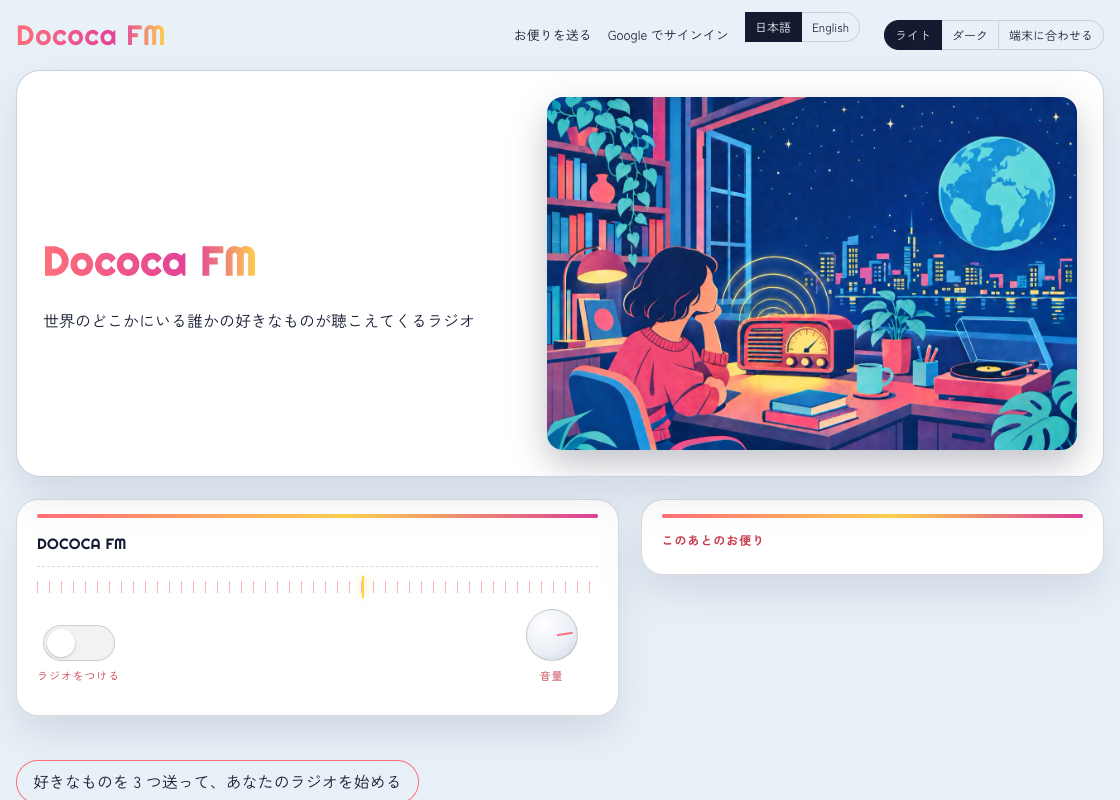
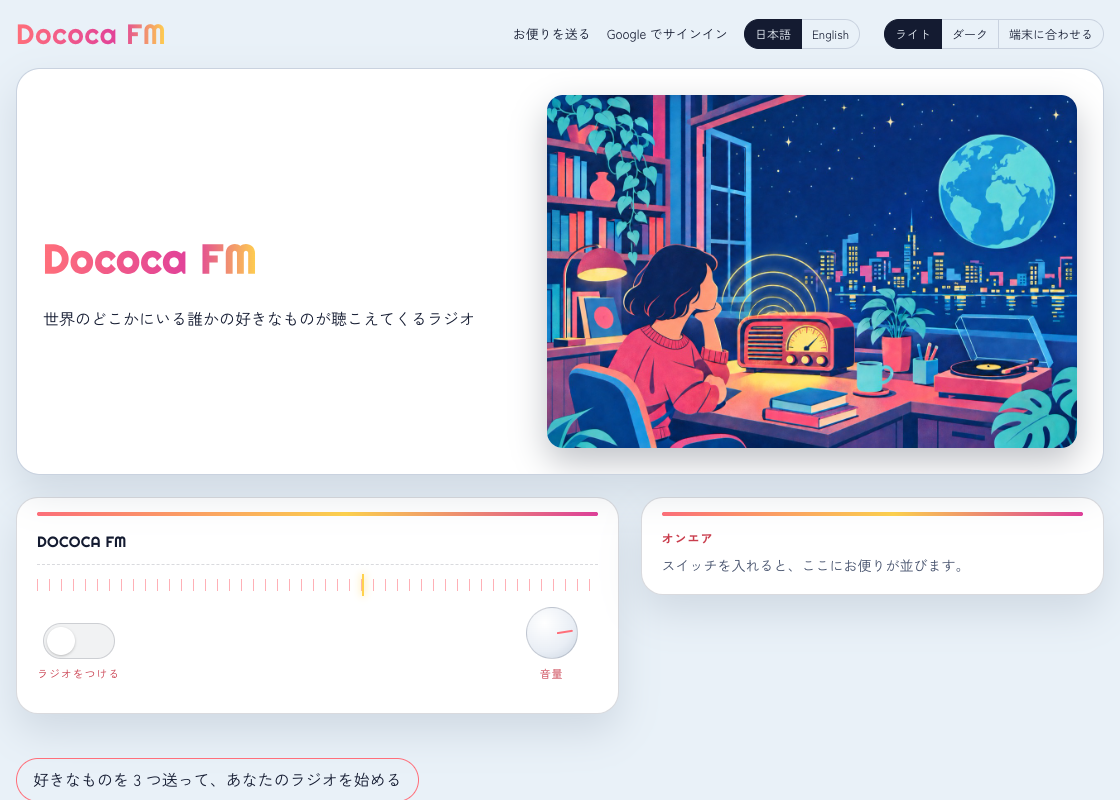
fix: language switch pills align with the theme switch

diff --git a/public/app.css b/public/app.css
@@ -209,7 +209,7 @@ a {
 }
 
 .lang-toggle {
-  margin-right: var(--sp-2);
+  margin: 0 var(--sp-2) 0 0;
 }
 
 .theme-toggle button,
@@ -235,13 +235,13 @@ a {
 }
 
 .theme-toggle button:first-child,
-.lang-toggle button:first-child {
+.lang-toggle button:first-of-type {
   border-left-width: 1px;
   border-radius: var(--r-pill) 0 0 var(--r-pill);
 }
 
 .theme-toggle button:last-child,
-.lang-toggle button:last-child {
+.lang-toggle button:last-of-type {
   border-radius: 0 var(--r-pill) var(--r-pill) 0;
 }
 
